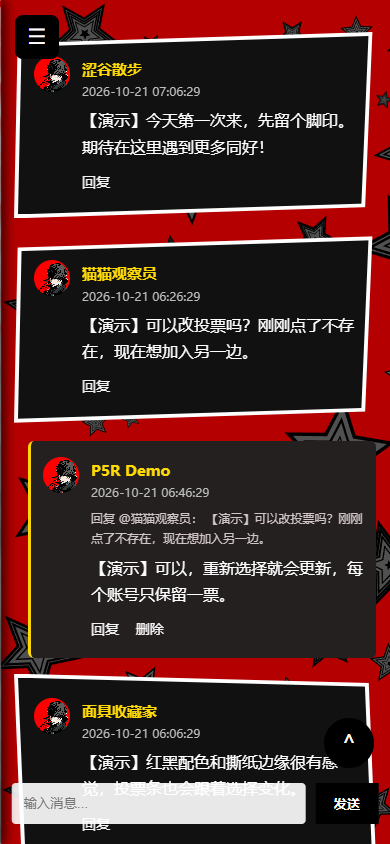
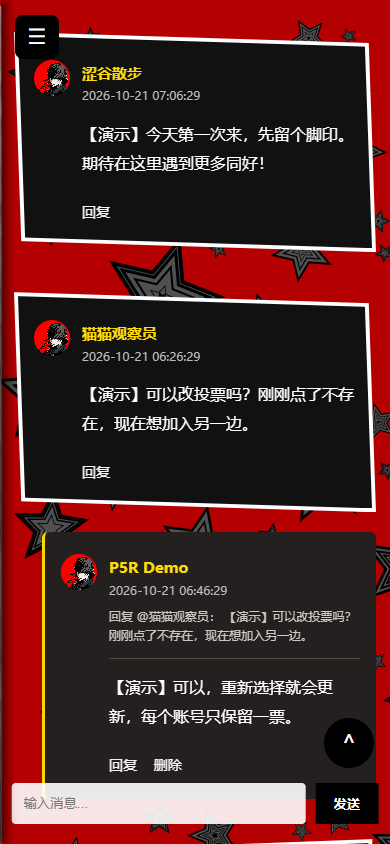
Separate discussion threads and give replies more space

diff --git a/css/style.css b/css/style.css
@@ -496,3 +496,16 @@ body { isolation: isolate; }
     .msg-reply { padding: 16px 12px; margin-left: 14px; }
     .time { display: block; margin-left: 0; }
 }
+
+/* Keep each conversation visibly separate from the next. */
+.discussion-thread { display: flex; flex-direction: column; gap: 24px; margin-bottom: 56px; }
+.discussion-thread .msg-main { margin: 0; padding-top: 34px; padding-bottom: 34px; }
+.discussion-thread .msg-reply { margin: 0 16px 0 72px; padding: 26px 28px; }
+.discussion-thread .reply-info { padding-bottom: 12px; margin-bottom: 14px; border-bottom: 1px solid #574646; }
+.discussion-thread .msg-content > p { margin: 14px 0 !important; line-height: 1.8; }
+.discussion-thread .msg-content a { margin-top: 8px; }
+@media(max-width:768px) {
+    .discussion-thread { gap: 20px; margin-bottom: 40px; }
+    .discussion-thread .msg-main { padding-top: 28px; padding-bottom: 28px; }
+    .discussion-thread .msg-reply { margin: 0 0 0 28px; padding: 22px 16px; }
+}

diff --git a/index.php b/index.php
@@ -256,6 +256,7 @@ $group = $finalGroups;
             <!-- ═══ 聊天区 ═══ -->
             <div class="chat-box" id="chatArea">
                 <?php foreach ($group as $thread): ?>
+                    <section class="discussion-thread" aria-label="评论与回复">
                     <?php foreach ($thread as $message): ?>
                         <?php
                         $baseClass = (int)$message['reply_id'] === 0 ? 'msg-main' : 'msg-reply';
@@ -293,6 +294,7 @@ $group = $finalGroups;
                             </div>
                         </div>
                     <?php endforeach; ?>
+                    </section>
                 <?php endforeach; ?>
             </div>
 
